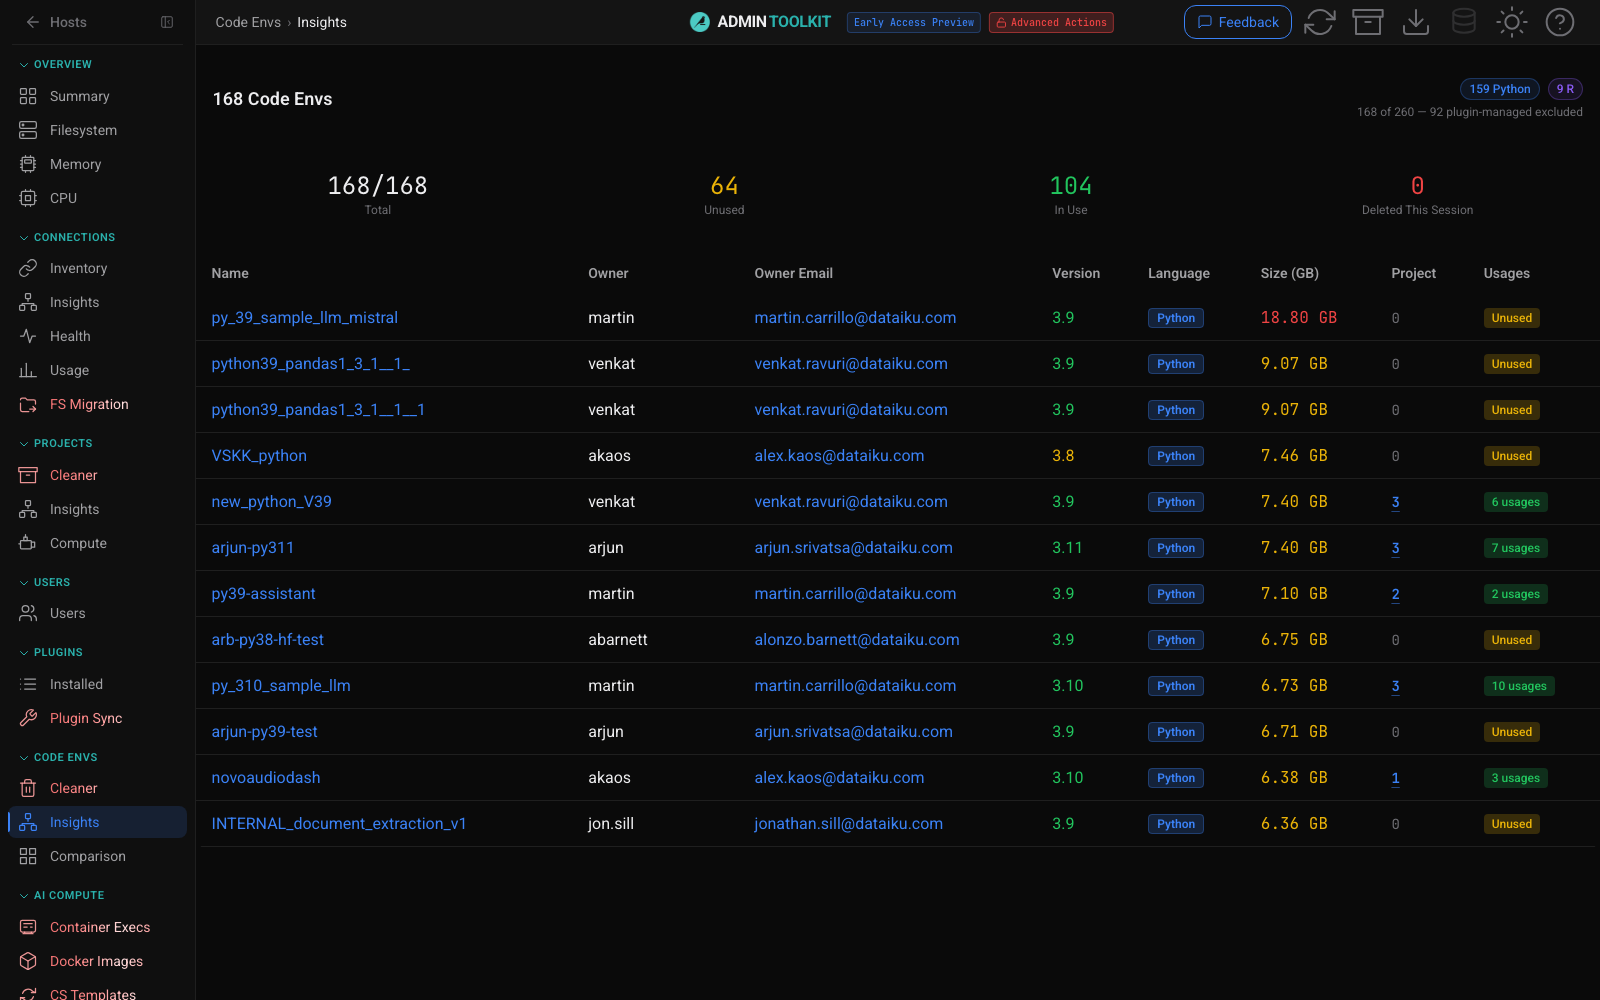
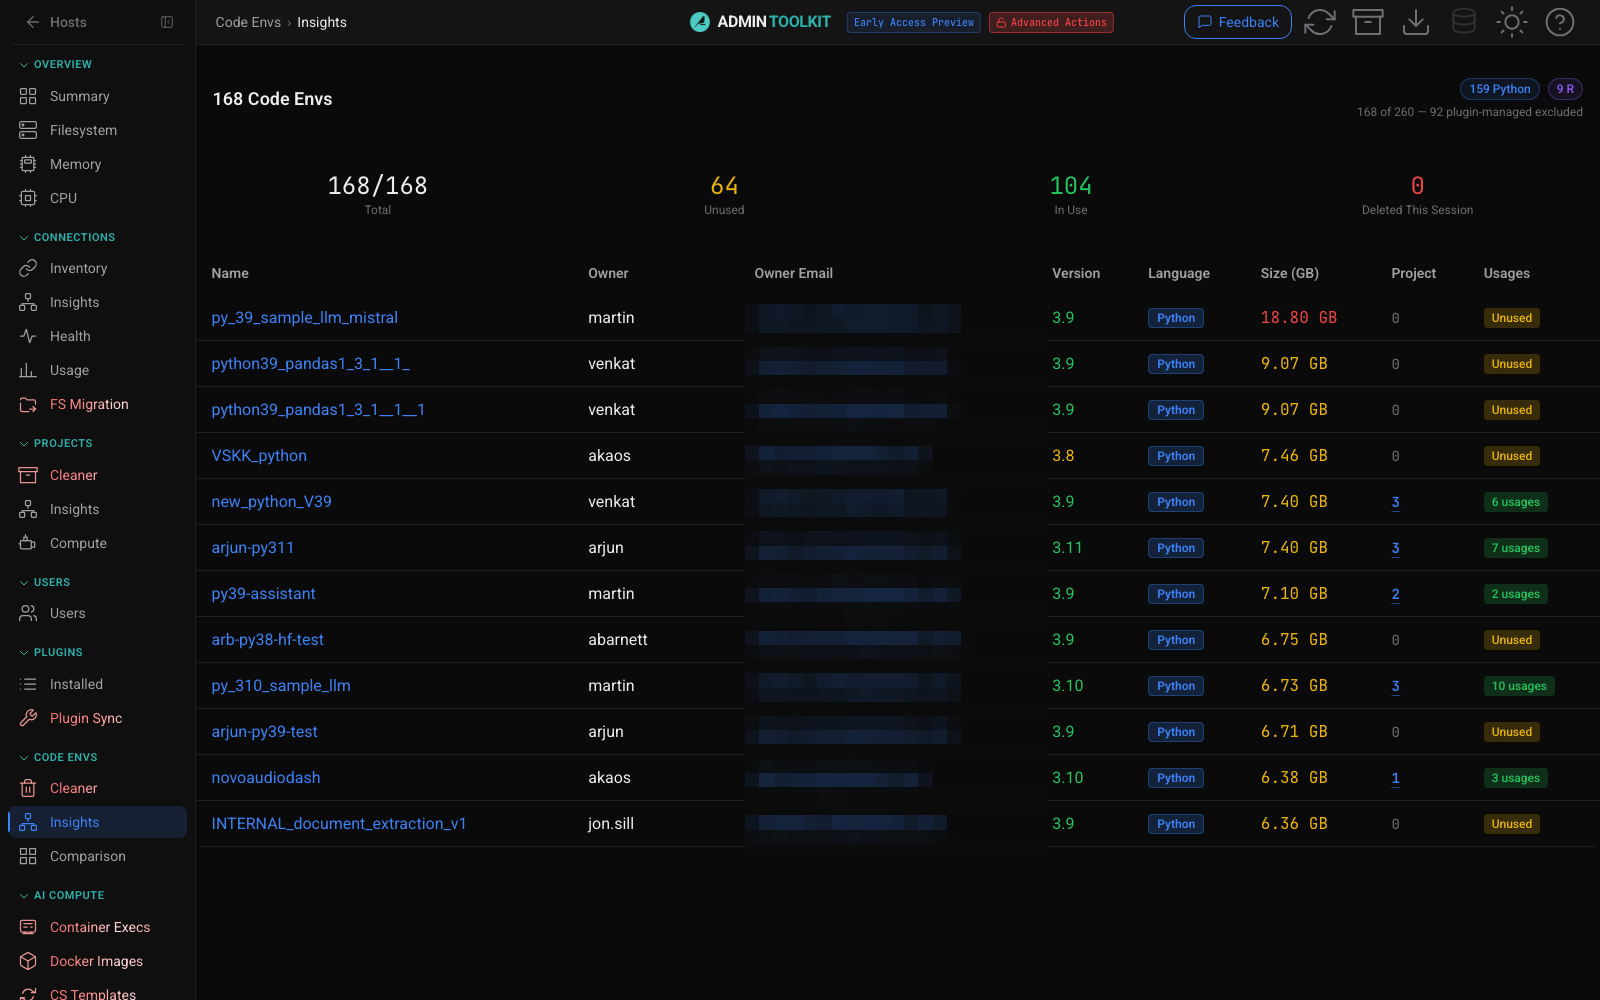
README: git-based install, pixelate owner emails, drop dev/usage sections, add Auditability

Changed region(s): [[0.4688, 0.403, 0.5938, 0.744], [0.4688, 0.279, 0.5938, 0.372], [0.4688, 0.775, 0.5938, 0.837]]

diff --git a/README.md b/README.md
@@ -166,8 +166,8 @@ Pure DSS API operations talk to the instance directly. Anything host-bound (file
 
 ### Install the plugin
 
-1. Get the plugin ZIP — either grab a release artifact (`dss-plugin-admin-toolkit-<version>.zip`) or build it yourself with `make plugin` (output lands in `dist/`).
-2. In DSS: **Plugins → Add plugin → Upload**, select the ZIP.
+1. The repo is private — send your SSH public key to the author to be granted read access.
+2. In DSS: **Plugins → Add plugin → Fetch from Git repository** → `git@github.com:gozu/admin-toolkit.git`. Future upgrades are then one click: **Update from repository**.
 3. When prompted, **build the plugin code environment** (the webapp backend runs in it).
 4. In a project of your choice: **Webapps → New webapp → Plugin webapp → Admin Toolkit**, then start the backend.
 5. **Restrict access**: configure the webapp to require authentication and limit it to admin groups.
@@ -197,60 +197,16 @@ Everything lives on the **Settings** page (plus the plugin preset for secrets):
 - **Mail channel** — pick the DSS messaging channel used by outreach campaigns.
 - **DB Health connection** — point the DB Health tool at your PostgreSQL runtimedb (read-only analysis).
 - **Save tables as datasets** — optionally pick a connection so any UI table can be exported as a managed dataset in the webapp's project.
-- **Algorithm review notebooks** — ship a set of review notebooks (one per scan algorithm) into the webapp's own project, so you can audit exactly how every number is computed.
 - **Performance tuning** — worker counts and cache windows, with a one-click **benchmark auto-tuner** that sweeps worker configurations against your real workload and applies the best one.
 - **Support bundle** — download a ZIP of backend logs, settings, and performance diagnostics for troubleshooting.
 
 <div align="center"><img src="docs/screenshots/settings.png" alt="Settings — mail channel, advanced actions, notebooks, dataset export, experimental features" width="850" /></div>
 
-## Usage notes
+## Auditability
 
-- **Outreach campaigns** — the FS Migration and Project Cleaner tools don't just fix things centrally; they can email project owners about unhealthy patterns (15 built-in campaign types: code-env sprawl, deprecated Python, inactive projects, failing scenarios, …). Each campaign supports recipient preview, per-project exemptions, template preview, and send history.
-- **Report** — export current findings as a standalone document for stakeholders who will never open the webapp.
-- **Errors page** — parses the DSS backend log into deduplicated errors with surrounding context, so you can triage without `tail -f`.
-- **Feedback** — bug reports and feature ideas filed from inside the app land with the toolkit's maintainer.
+Every number the toolkit shows should be checkable, not taken on faith. From Settings you can ship the **algorithm review notebooks** — one Jupyter notebook per scan algorithm, installed into the webapp's own project on the plugin's code env. Each notebook reproduces a scan's computation step by step against your live instance, so you can open it, re-run it, and verify exactly how a number was derived (or tweak the logic and see what changes). Combined with the **support bundle** download and the **Errors** page, this makes the toolkit's reasoning fully inspectable from inside DSS.
 
-## Development
-
-### Prerequisites
-
-- **Node ≥ 20.19** (the rolldown-based build requires it — `nvm use 20` before building)
-- Python 3.9+ with the deps from `code-env/python/spec/requirements.txt` for backend work
-- For deploys: `.dss-url` and `.dss-api-key` files in the project root (see table below)
-
-### Frontend
-
-```bash
-cd resource/frontend
-npm install
-npm run dev          # dev server
-npm run build        # production build (tsc + vite)
-npm run lint         # ESLint
-npm run typecheck    # TypeScript strict
-npm run format       # Prettier
-npx playwright test  # E2E tests
-```
-
-Before any deploy, run the contract checks:
-
-```bash
-npm run typecheck
-node scripts/check_frontend_contracts.mjs   # registry / lifecycle / SSE / tone contracts
-```
-
-### Build & deploy
-
-| Target | What it does |
-|---|---|
-| `make deploy COMMIT_MSG="msg"` | Bump version, build frontend, commit, deploy to all targets |
-| `make plugin` | Build the plugin ZIP into `dist/` |
-| `make deploy-dev` | Deploy to the dev server only |
-| `make deploy-prod-secure` | Deploy to prod via sudo wrappers |
-| `make clean` | Remove dist + node_modules |
-
-Deploy credentials live in untracked root files: `.dss-url` (instance URL), `.dss-api-key` (admin key), and optionally `.dss-project-key` / `.dss-webapp-id`.
-
-### Project structure
+## Project structure
 
 ```
 plugin.json                  # plugin manifest (params, version, secrets)
@@ -264,7 +220,7 @@ docs/                        # UI/UX contracts, screenshots
 Makefile                     # build & deploy orchestration
 ```
 
-The UI has a deliberate soul: polished, fast, dense, with videogame-smooth interactions — no stutters, no layout jumps, no silent waits. Progress states follow strict color semantics (grey = queued, yellow = active/stalled, white = ready, red = failure), and every module plugs into shared navigation, lifecycle, and availability contracts instead of hand-wiring pages. The full rules live in [`docs/ui-ux-contracts.md`](docs/ui-ux-contracts.md); release history is in [`CHANGELOG.md`](CHANGELOG.md).
+Every module plugs into shared navigation, lifecycle, and availability contracts instead of hand-wiring pages. The full rules live in [`docs/ui-ux-contracts.md`](docs/ui-ux-contracts.md); release history is in [`CHANGELOG.md`](CHANGELOG.md).
 
 ## Security model
 
